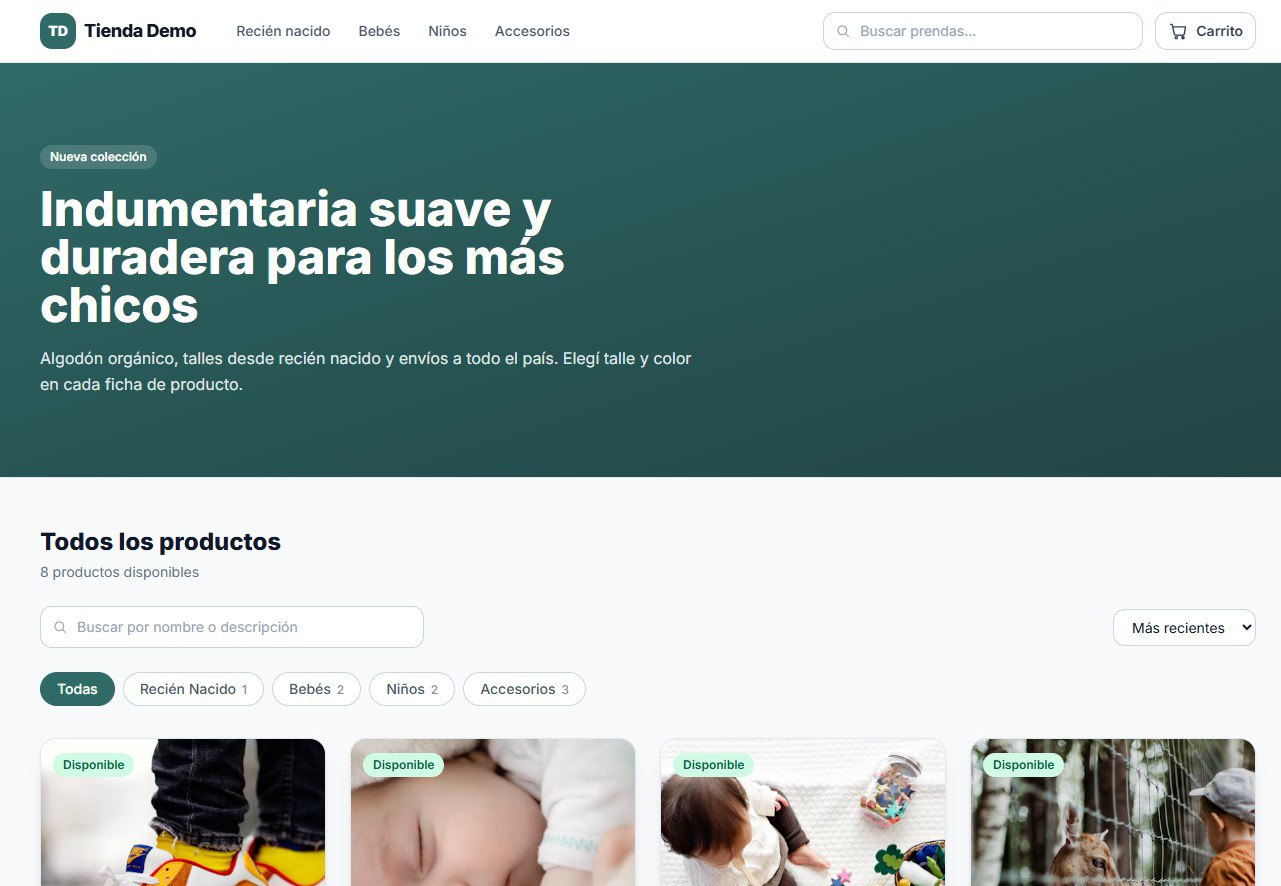
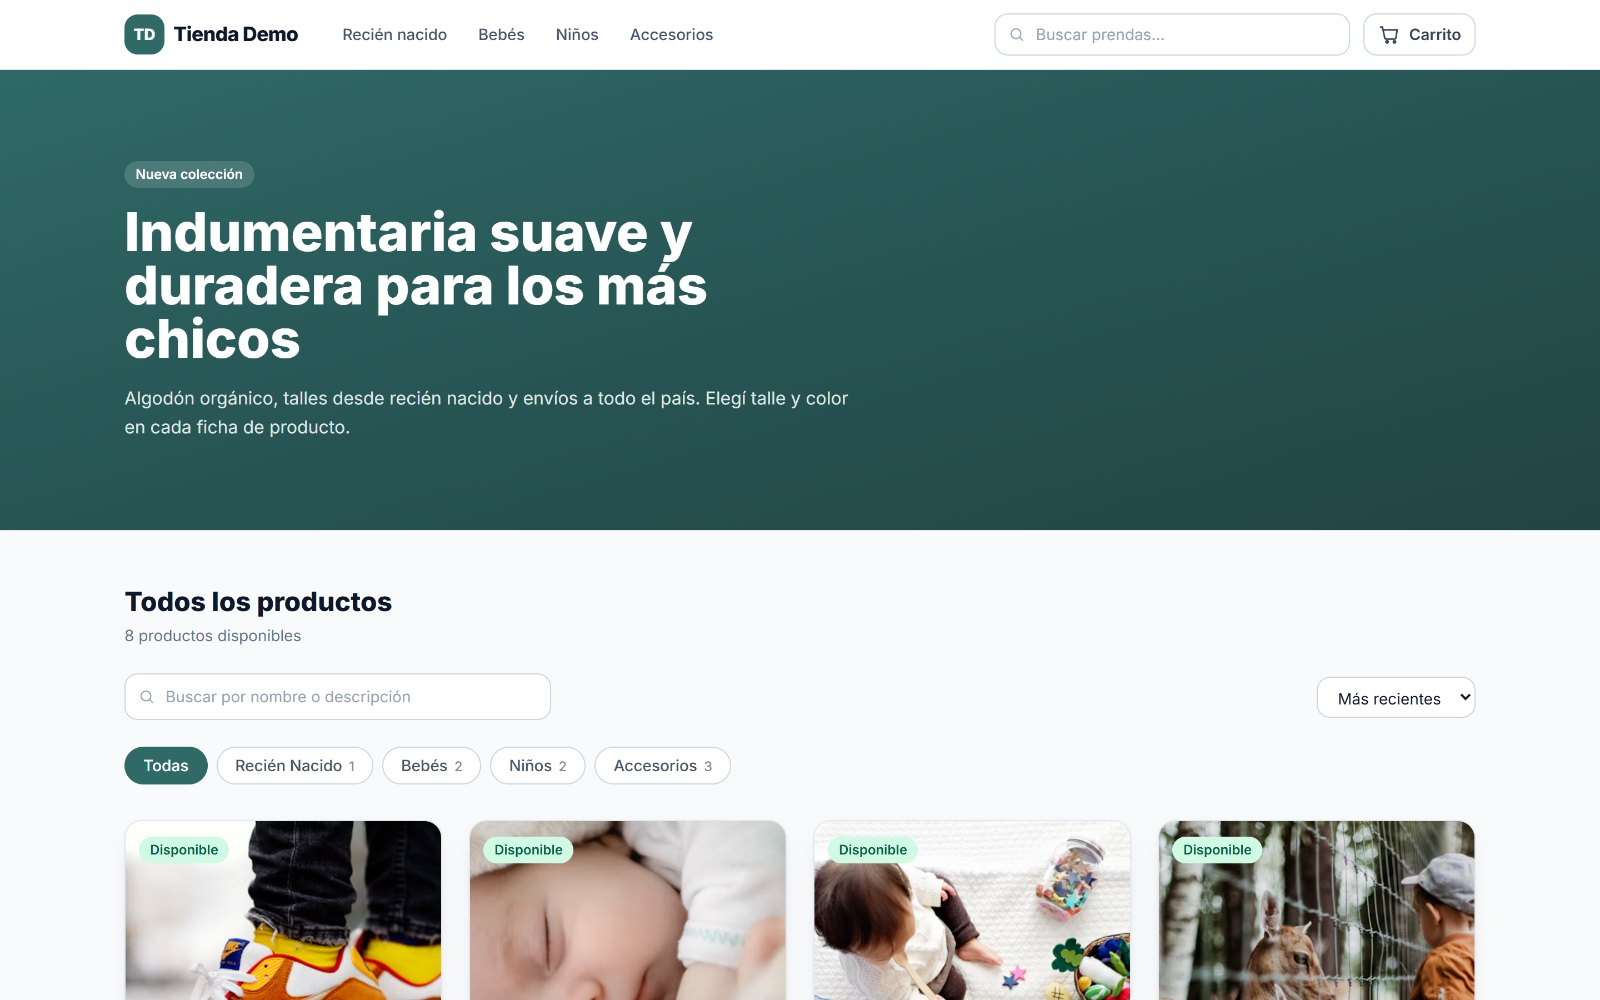
Demo real: URL de Render, capturas propias y galeria de 3 pantallas

diff --git a/index.html b/index.html
@@ -24,7 +24,7 @@
   const CONFIG = {
     whatsapp: "5493462226572",
     email: "lisandro@lfdev.com.ar",
-    demo: "https://tienda-demo.onrender.com", // ← REEMPLAZAR por la URL real de la demo
+    demo: "https://demo-web-ooz8.onrender.com",
     ciudad: "Venado Tuerto"
   };
   const wa = (txt) => `https://wa.me/${CONFIG.whatsapp}?text=${encodeURIComponent(txt)}`;
@@ -145,9 +145,6 @@
 
   .grid-3{display:grid;grid-template-columns:repeat(3,1fr);gap:18px}
   @media(max-width:900px){.grid-3{grid-template-columns:1fr}}
-  .grid-4{display:grid;grid-template-columns:repeat(4,1fr);gap:16px}
-  @media(max-width:1000px){.grid-4{grid-template-columns:1fr 1fr}}
-  @media(max-width:620px){.grid-4{grid-template-columns:1fr}}
   .card{background:var(--card);border:1px solid var(--line);border-radius:var(--radius);padding:26px}
   .card .num{font-family:ui-monospace,SFMono-Regular,Menlo,monospace;font-size:.78rem;color:var(--accent);margin-bottom:14px;display:block}
   .card h3{margin-bottom:10px}
@@ -155,11 +152,13 @@
   .pain{border-left:2px solid rgba(94,242,160,.4)}
 
   /* Demo banner */
-  .demo-banner{display:block;position:relative;border-radius:16px;overflow:hidden;border:1px solid var(--line);margin-bottom:26px;box-shadow:0 26px 70px rgba(0,0,0,.45);background:#fff}
-  .demo-banner img{width:100%;height:auto;display:block;transition:transform .4s ease}
-  .demo-banner:hover img{transform:scale(1.012)}
-  .demo-banner::after{content:"";position:absolute;inset:0;background:linear-gradient(180deg,transparent 60%,rgba(5,12,9,.55))}
-  .demo-cta{position:absolute;left:18px;bottom:16px;z-index:2;background:var(--accent);color:#04240f;font-weight:800;font-size:.86rem;padding:10px 17px;border-radius:999px;box-shadow:0 8px 24px rgba(0,0,0,.35)}
+  .gallery{display:grid;grid-template-columns:repeat(3,1fr);gap:14px}
+  @media(max-width:860px){.gallery{grid-template-columns:1fr}}
+  .shot-card{display:flex;flex-direction:column;border:1px solid var(--line);border-radius:14px;overflow:hidden;background:var(--card);transition:transform .2s,border-color .2s}
+  .shot-card:hover{border-color:rgba(94,242,160,.4);transform:translateY(-2px)}
+  .shot-card img{width:100%;height:auto;display:block;background:#fff;border-bottom:1px solid var(--line)}
+  .shot-card .cap{padding:14px 16px;font-size:.86rem;color:var(--muted);line-height:1.5}
+  .shot-card .cap b{color:var(--text);display:block;font-size:.92rem;margin-bottom:2px}
 
   /* Steps */
   .steps{display:grid;grid-template-columns:repeat(3,1fr);gap:18px}
@@ -249,8 +248,8 @@
       </div>
 
       <div class="browser">
-        <div class="bar"><i></i><i></i><i></i><span>tienda-demo.onrender.com</span></div>
-        <img class="shot" src="assets/demo-tienda.jpg" width="1281" height="886" alt="Tienda online de ejemplo: catálogo de indumentaria para bebés y niños con filtros por categoría, buscador y precios">
+        <div class="bar"><i></i><i></i><i></i><span>demo-web-ooz8.onrender.com</span></div>
+        <img class="shot" src="assets/demo-tienda.jpg" width="1600" height="1000" alt="Tienda online de ejemplo: catálogo de indumentaria para bebés y niños con filtros por categoría, buscador y precios">
         <div class="chip">
           <div class="tick">✓</div>
           <div>
@@ -309,35 +308,26 @@
         <p>Es una tienda de indumentaria para bebés y niños, funcionando de verdad: 8 productos, 23 variantes de talle y color, y el panel de administración detrás.</p>
       </div>
 
-      <a class="demo-banner" data-demo href="#" aria-label="Abrir la tienda demo">
-        <img src="assets/demo-tienda.jpg" width="1281" height="886" alt="Tienda demo de indumentaria para bebés y niños: portada, filtros por categoría y productos con precio y disponibilidad">
-        <span class="demo-cta">Abrir la demo ↗</span>
-      </a>
-
-      <div class="grid-4">
-        <article class="card">
-          <h3>Catálogo completo</h3>
-          <p>Filtros por categoría, buscador y orden por precio. Cada producto con sus fotos y descripción.</p>
-        </article>
-        <article class="card">
-          <h3>Talle y color reales</h3>
-          <p>Variantes con stock propio: lo que está agotado se ve agotado y no se puede comprar.</p>
-        </article>
-        <article class="card">
-          <h3>Carrito y checkout</h3>
-          <p>Validación de datos, resumen del pedido y pago con Mercado Pago. El pedido queda con número.</p>
-        </article>
-        <article class="card">
-          <h3>Panel de administración</h3>
-          <p>Pedidos, cobros, productos y stock en un solo lugar, con permisos por usuario.</p>
-        </article>
+      <div class="gallery">
+        <a class="shot-card" data-demo href="#" aria-label="Abrir la tienda demo">
+          <img src="assets/demo-tienda.jpg" width="1600" height="1000" alt="Catálogo de la tienda demo: filtros por categoría, buscador y productos con precio y disponibilidad">
+          <span class="cap"><b>Catálogo</b>Filtros por categoría, buscador y orden por precio.</span>
+        </a>
+        <a class="shot-card" data-demo href="#" aria-label="Abrir la tienda demo">
+          <img src="assets/demo-producto.jpg" width="960" height="600" alt="Ficha de producto con talle, color y stock por variante: el talle 20 figura sin stock">
+          <span class="cap"><b>Talle y stock</b>Lo agotado se ve agotado y no se puede comprar.</span>
+        </a>
+        <a class="shot-card" data-demo href="#" aria-label="Abrir la tienda demo">
+          <img src="assets/demo-carrito.jpg" width="960" height="600" alt="Carrito lateral con el producto agregado, subtotal y botón Finalizar compra">
+          <span class="cap"><b>Carrito</b>Subtotal, cantidades y checkout con Mercado Pago.</span>
+        </a>
       </div>
 
-      <div class="cta-row" style="margin-top:32px">
+      <div class="cta-row" style="margin-top:30px">
         <a class="btn btn-primary" data-demo href="#">Abrir la tienda demo</a>
         <a class="btn btn-ghost" data-wa="Hola Lisandro! Vi la demo y quiero ver el panel de administración." href="#">Ver el panel</a>
       </div>
-      <p class="hero-note" style="max-width:70ch">El cobro de la demo es simulado: podés generar un pedido sin gastar nada. Con tus credenciales de Mercado Pago, cobra de verdad.</p>
+      <p class="hero-note" style="max-width:74ch">Detrás hay un panel con pedidos, cobros, productos y stock, con permisos por usuario. El cobro de la demo es simulado: podés generar un pedido sin gastar nada.</p>
     </div>
   </section>
 

diff --git a/README.md b/README.md
@@ -3,7 +3,9 @@
 Sitio de una sola página de **LF Dev**: tiendas online a medida para negocios de Venado Tuerto y la región.
 
 - `index.html` — todo el sitio (HTML + CSS + JS embebido, sin dependencias).
-- `assets/demo-tienda.jpg` — captura real de la tienda demo.
+- `assets/demo-tienda.jpg` — captura real del catálogo de la demo.
+- `assets/demo-producto.jpg` — ficha de producto con talle y stock.
+- `assets/demo-carrito.jpg` — carrito con el checkout.
 - `assets/og.jpg` — imagen para compartir el link (1200×630).
 - `brand/` — opciones de logo en SVG y una hoja de muestra (`brand/index.html`, con `noindex`).
 - `favicon.svg` — ícono del sitio (badge LF).
@@ -16,13 +18,13 @@ Antes de publicar cambios, revisar el bloque `CONFIG` al inicio de `index.html`:
 const CONFIG = {
   whatsapp: "5493462226572",
   email: "lisandro@lfdev.com.ar",
-  demo: "https://tienda-demo.onrender.com",  // ← URL real de la demo
+  demo: "https://demo-web-ooz8.onrender.com",
   ciudad: "Venado Tuerto"
 };
 ```
 
-> **Pendiente:** reemplazar `demo` por la URL real del servicio en Render. Todos los botones de demo
-> ("Entrar a la demo", "Abrir la tienda demo", el banner y "Ver la demo") toman ese valor.
+> Todos los botones de demo ("Entrar a la demo", "Abrir la tienda demo", las tres capturas
+> y "Ver la demo") toman el valor de `CONFIG.demo`. Si cambia la URL de Render, se cambia ahí.
 
 ## Precios
 
